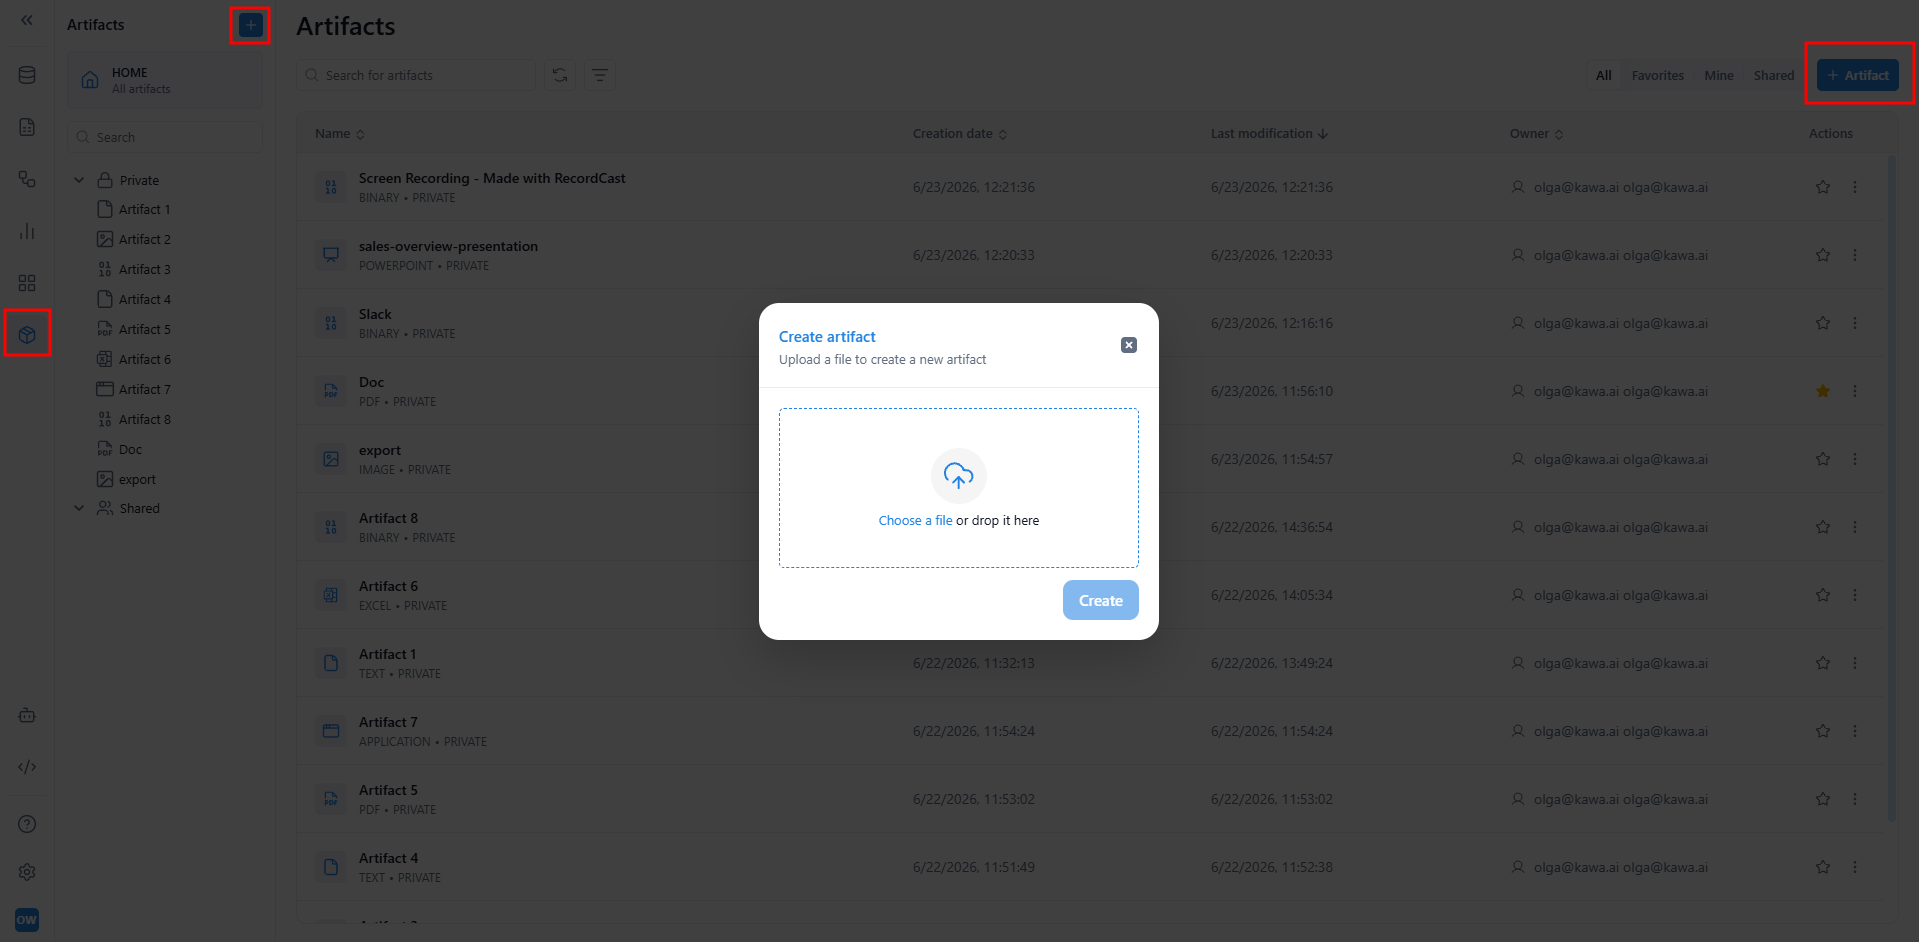
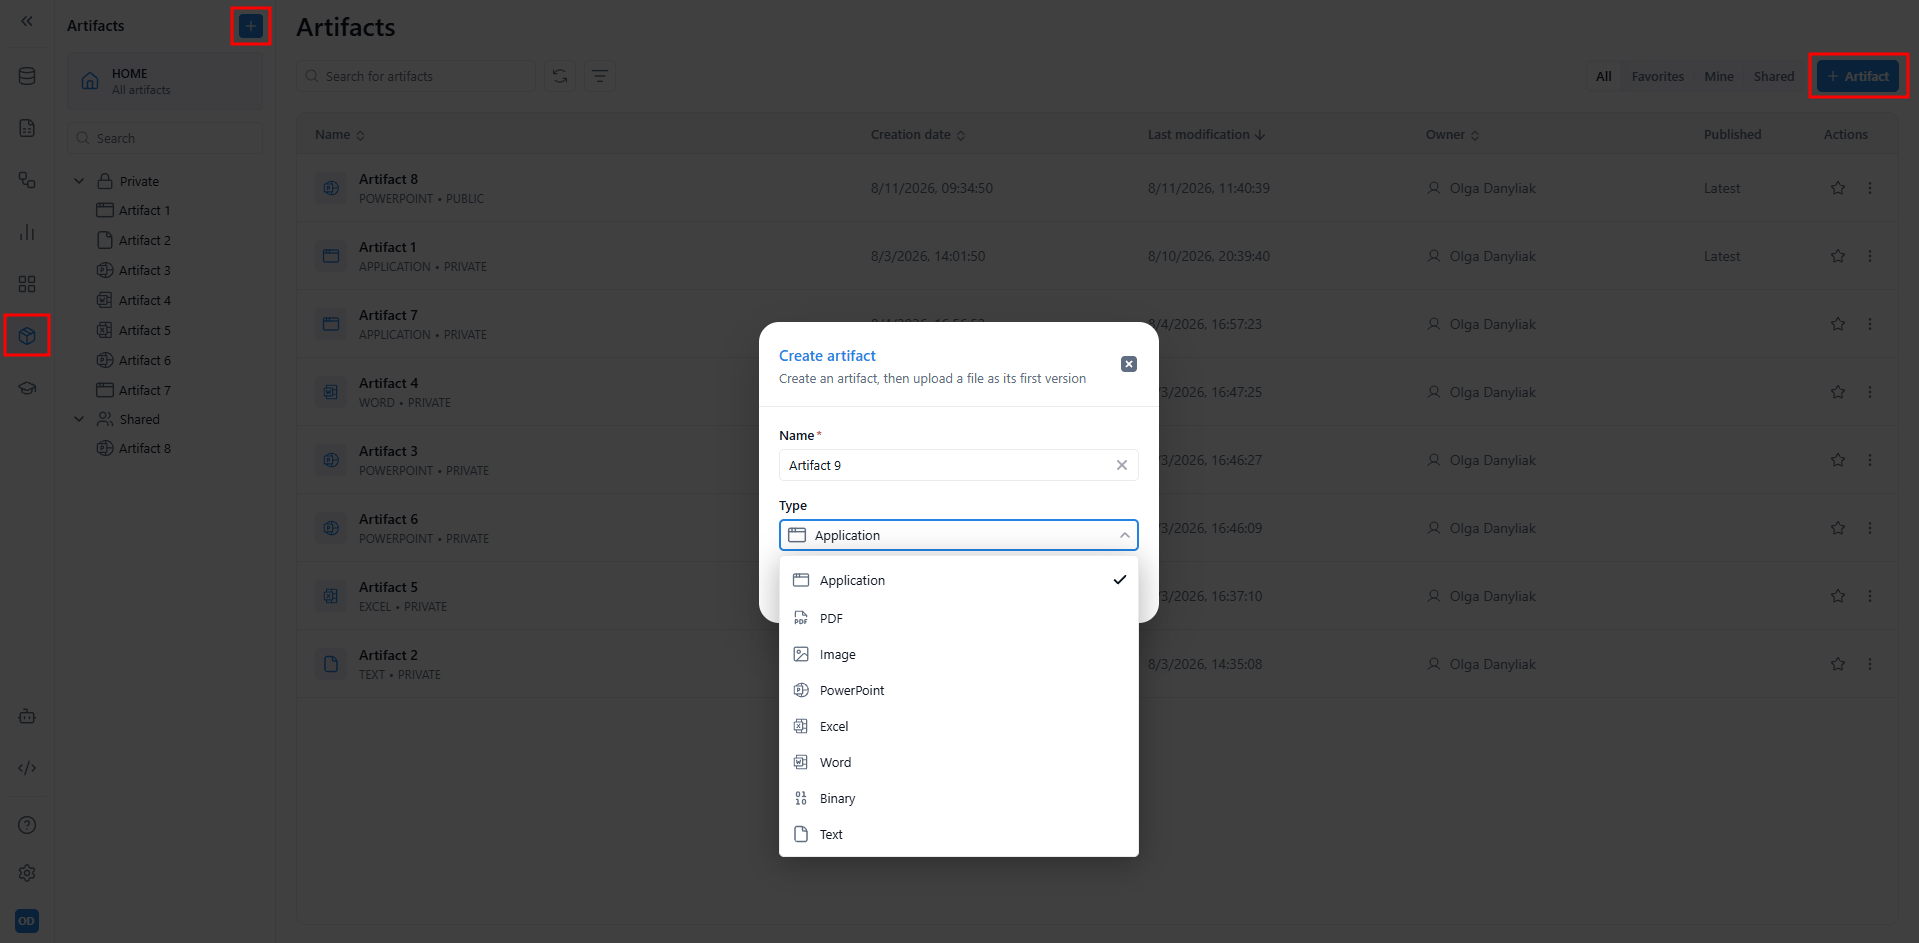
GITBOOK-105: No subject

diff --git a/artifacts.md b/artifacts.md
@@ -2,21 +2,19 @@
 
 See definitions in [Terminology](13_00_terminology.md#artifact) section.
 
-The **Artifacts** tab is a workspace-level library for the files you bring into KAWA. It gives you a single place to upload, store, preview, version, and download files — PDFs, images, presentations, spreadsheets, text, application files, and other binaries — without leaving the platform.
+The **Artifacts** tab is a workspace-level library for the files you bring into KAWA. It gives you a single place to upload, store, preview, version, publish, and download files — PDFs, images, presentations, spreadsheets, text, application files, and other binaries — without leaving the platform.
 
 Where sheets hold your modeled data and dashboards hold your live views, the Artifacts tab holds your **files**: the documents and deliverables you want to keep, version, and share with your team.
 
 ### 1. Creating an artifact
 
-Artifacts are created by uploading a file from your computer.
+An artifact is created first as an empty container; you then add a file to it as its first version.
 
-Click (+ Artifact) at the top right — or the (+) button at the top of the left panel — to open the **Create artifact** dialog. The dialog opens on a file area: click (Choose a file) or drop a file onto it. Once the file is added, it appears as a chip showing its type, name, and size, with an (×) to remove or replace it, and the **Artifact name** field appears pre-filled with the file's name (without the extension). Adjust the name if needed, then click (Create).
+Click (+ Artifact) at the top right — or the (+) button at the top of the left panel — to open the **Create artifact** dialog. Enter a **Name** (required), then choose a **Type** from the dropdown: `Application`, `PDF`, `Image`, `PowerPoint`, `Excel`, `Word`, `Binary`, or `Text`. Click (**Create**).
 
 <div data-with-frame="true"><figure><img src=".gitbook/assets/artifacts1.png" alt=""><figcaption></figcaption></figure></div>
 
-The new artifact appears in the list and is created as version 1. KAWA detects the file type automatically and labels the artifact accordingly (for example, `TEXT`, `PDF`, or `BINARY`).
-
-> Files of an unsupported type are rejected, with feedback shown directly in the dialog.
+The new artifact appears in the list, labeled with its type (for example, `POWERPOINT`), and opens with an empty preview reading _No versions yet_. Add a file to populate it — see [ **Versions**](artifacts.md#id-3.-versions) below.
 
 ### 2. Viewing an artifact
 
@@ -27,26 +25,46 @@ Click an artifact's name to open its detail page. The detail page has three part
 The left of the detail page summarizes the artifact:
 
 * **Creator** — the user who created it.
-* **Access** — the artifact's visibility (for example, _Restricted_).
+* **Access** — the artifact's current visibility (managed in **Sharing and permissions**).
 * **Created** and **Updated** — the creation and last-modification timestamps.
 
 #### 2.2 Versions panel
 
-Below the details, the **VERSIONS** panel lists every version of the artifact (v1, v2, and so on), each with its timestamp and author. The current version is marked with a check. Select any version to preview it, or use the (+) button to add a new version (see section **Versions**).
+Below the details, the **VERSIONS** panel lists every version of the artifact (v1, v2, and so on), each with its timestamp and author. The current version is marked with a check. Select any version to preview it, or use the (+) button to add a new version (see section [**Versions**](artifacts.md#id-3.-versions)).
 
-#### 2.3 Preview pane
+#### 2.3 Preview panel
 
-The main area previews the selected version's contents. For supported types, KAWA renders the file directly in the browser — for example, a text data file is shown as a table. The preview header offers two actions:
+The main area previews the selected version's contents. For supported types, KAWA renders the file directly in the browser — for example, a text data file is shown as a table, and a presentation is shown slide by slide. Use the zoom controls (`−` / `+`, the percentage readout, and (Reset)) to adjust the view. The preview header offers these actions:
 
 * **Download** — save the current version to your computer in its original format.
-* **Expand** — open the preview in a larger, full-width view.
+* **Publish** — choose a version and a visibility level for the artifact (see section [**Publishing**](artifacts.md#id-4.-publishing)).
+* **Open** — open the current version in a new browser tab.
+* **Details** — show or hide the details and versions panel.
 
 <div data-with-frame="true"><figure><img src=".gitbook/assets/artifacts2.png" alt=""><figcaption></figcaption></figure></div>
 
 ### 3. Versions
 
-An artifact keeps a full history of its **versions**. To add one, click the (+) button in the VERSIONS panel to open the **Add new version** dialog. Upload the new file the same way as when creating an artifact — drop it onto the file area or click (Choose a file), and it appears as a chip with its type, name, and size. You can also enter an optional **Description** for this specific version. Click (Add version) to save: KAWA stores it as a new version and keeps the previous ones.
+An artifact keeps a full history of its **versions**. A new artifact starts empty (_No versions yet_); the file you add first becomes v1.
+
+To add a version, click the (+) button in the VERSIONS panel to open the **Add new version** dialog. Upload the file — drop it onto the file area or click (Choose a file); the file chooser lists only files that match the artifact's type. Once a file is added, it appears as a chip with its type, name, and size, and an optional **Description** field appears for this version. Click (Add version) to save: KAWA stores it as a new version and keeps the previous ones.
+
+<div data-with-frame="true"><figure><img src=".gitbook/assets/artifacts3.png" alt=""><figcaption></figcaption></figure></div>
 
 This lets you update a file — a revised report, an updated deck, a corrected dataset — without losing what it replaced. The latest version is shown by default, and you can select any earlier version to preview or download it.
 
-<div data-with-frame="true"><figure><img src=".gitbook/assets/artifacts3.png" alt=""><figcaption></figcaption></figure></div>
+### 4. Publishing
+
+Publishing controls who can open an artifact and through which link. Click **Publish** in the detail header to open the **Publish artifact** dialog.
+
+Choose the **Version** to publish (for example, _Latest version (v1)_), then set the visibility:
+
+| Visibility               | Who can open it                                          |
+| ------------------------ | -------------------------------------------------------- |
+| **Restricted**           | No shareable link — only reachable inside the workspace. |
+| **Signed-in users**      | Anyone signed in who has the link can open it.           |
+| **Anyone with the link** | No sign-in required — anyone with the link can open it.  |
+
+Click (Apply) to save. The artifact list shows the current state in the **Published** column.
+
+<div data-with-frame="true"><figure><img src=".gitbook/assets/artifacts4.png" alt=""><figcaption></figcaption></figure></div>
